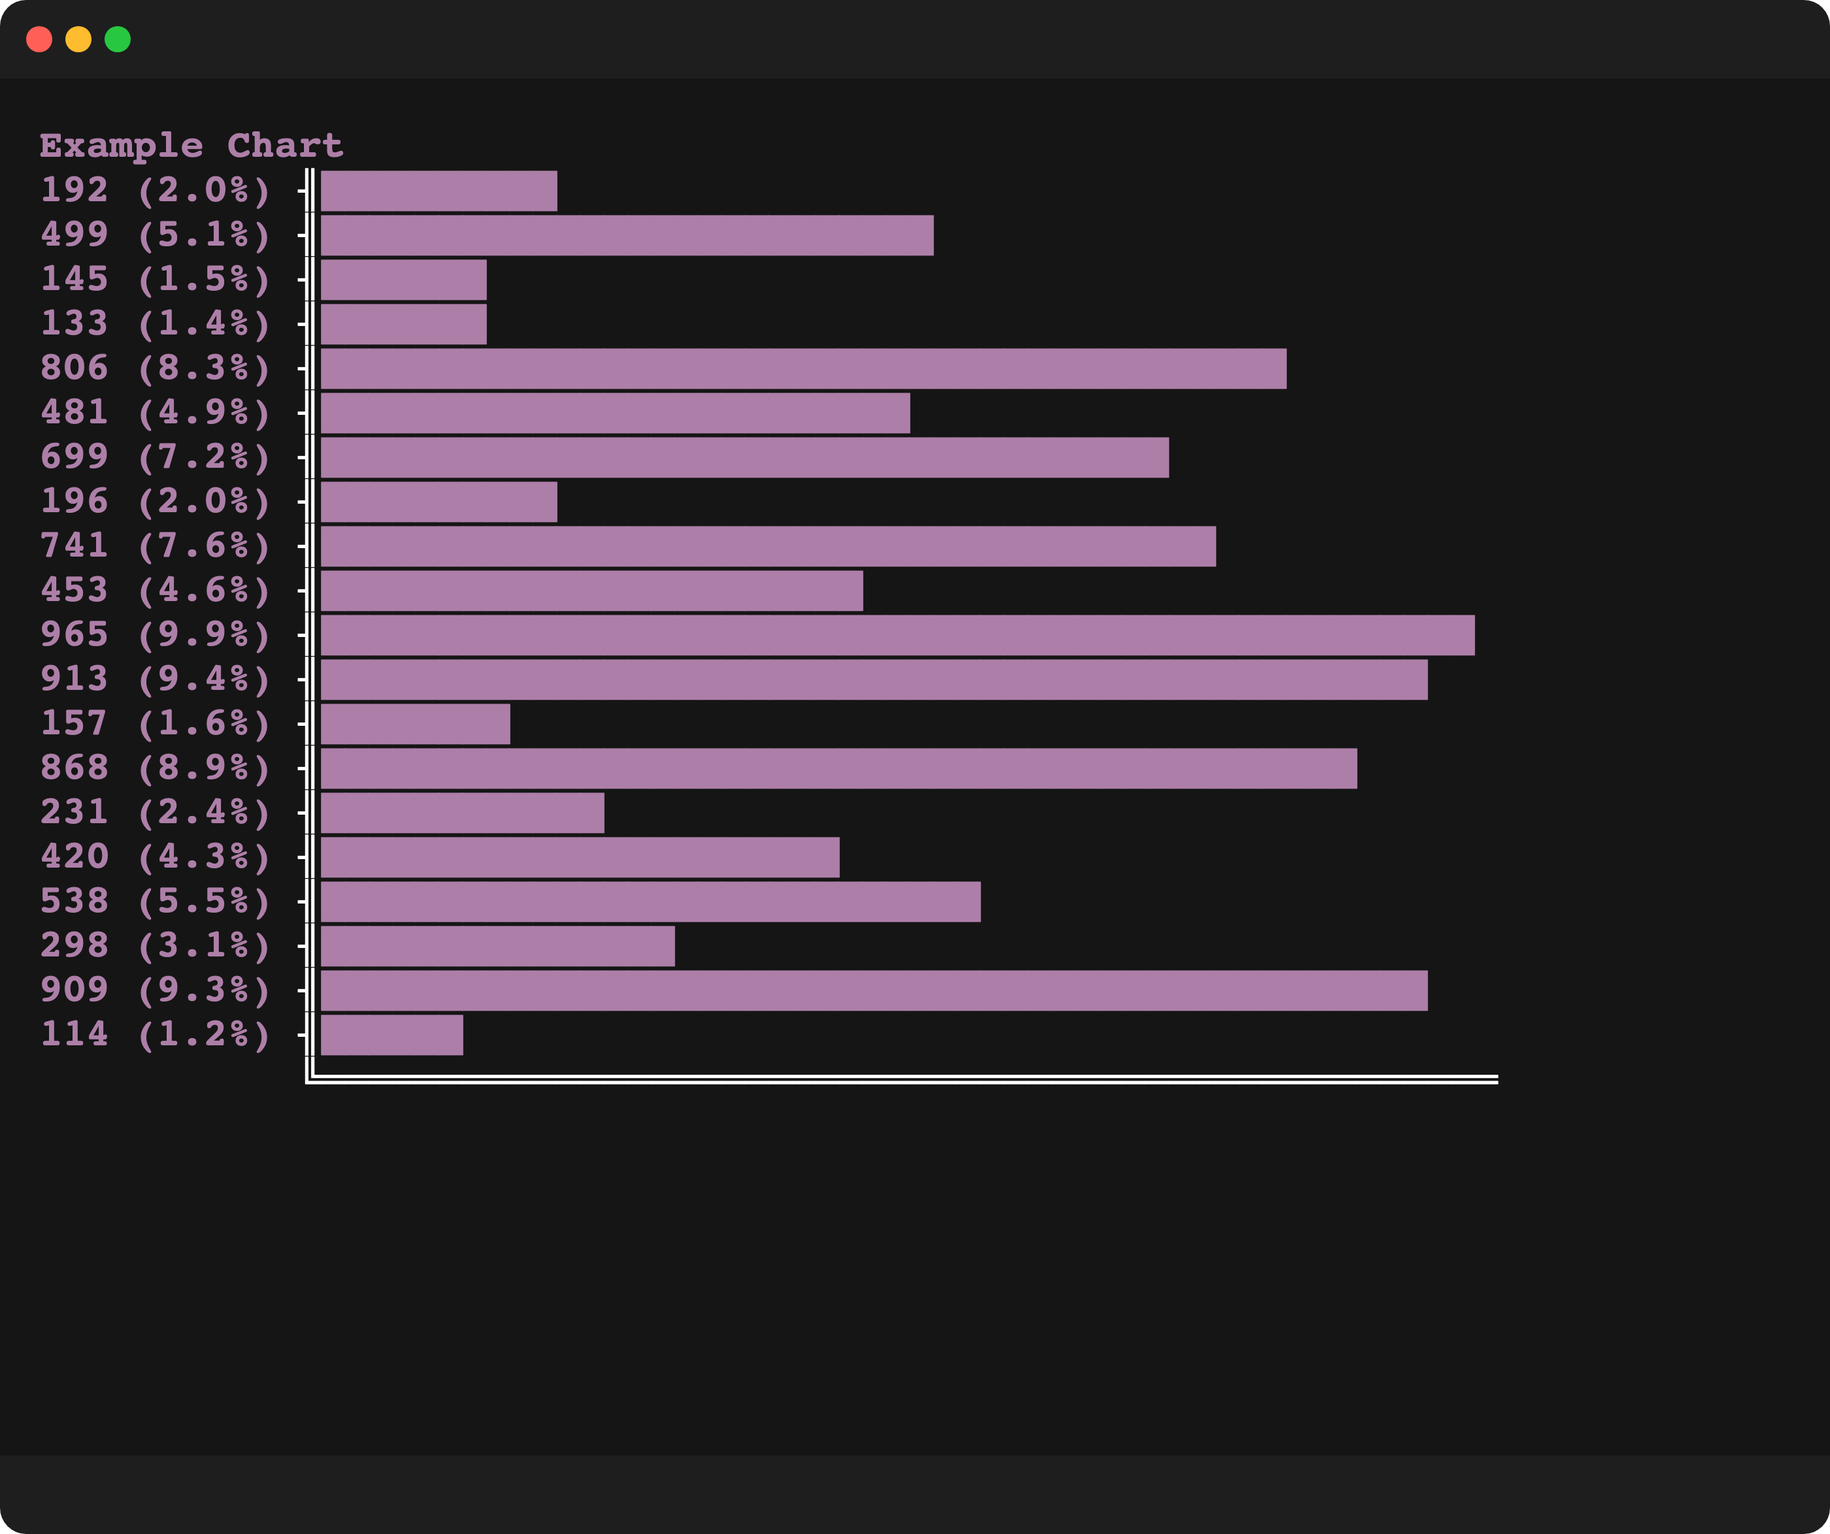
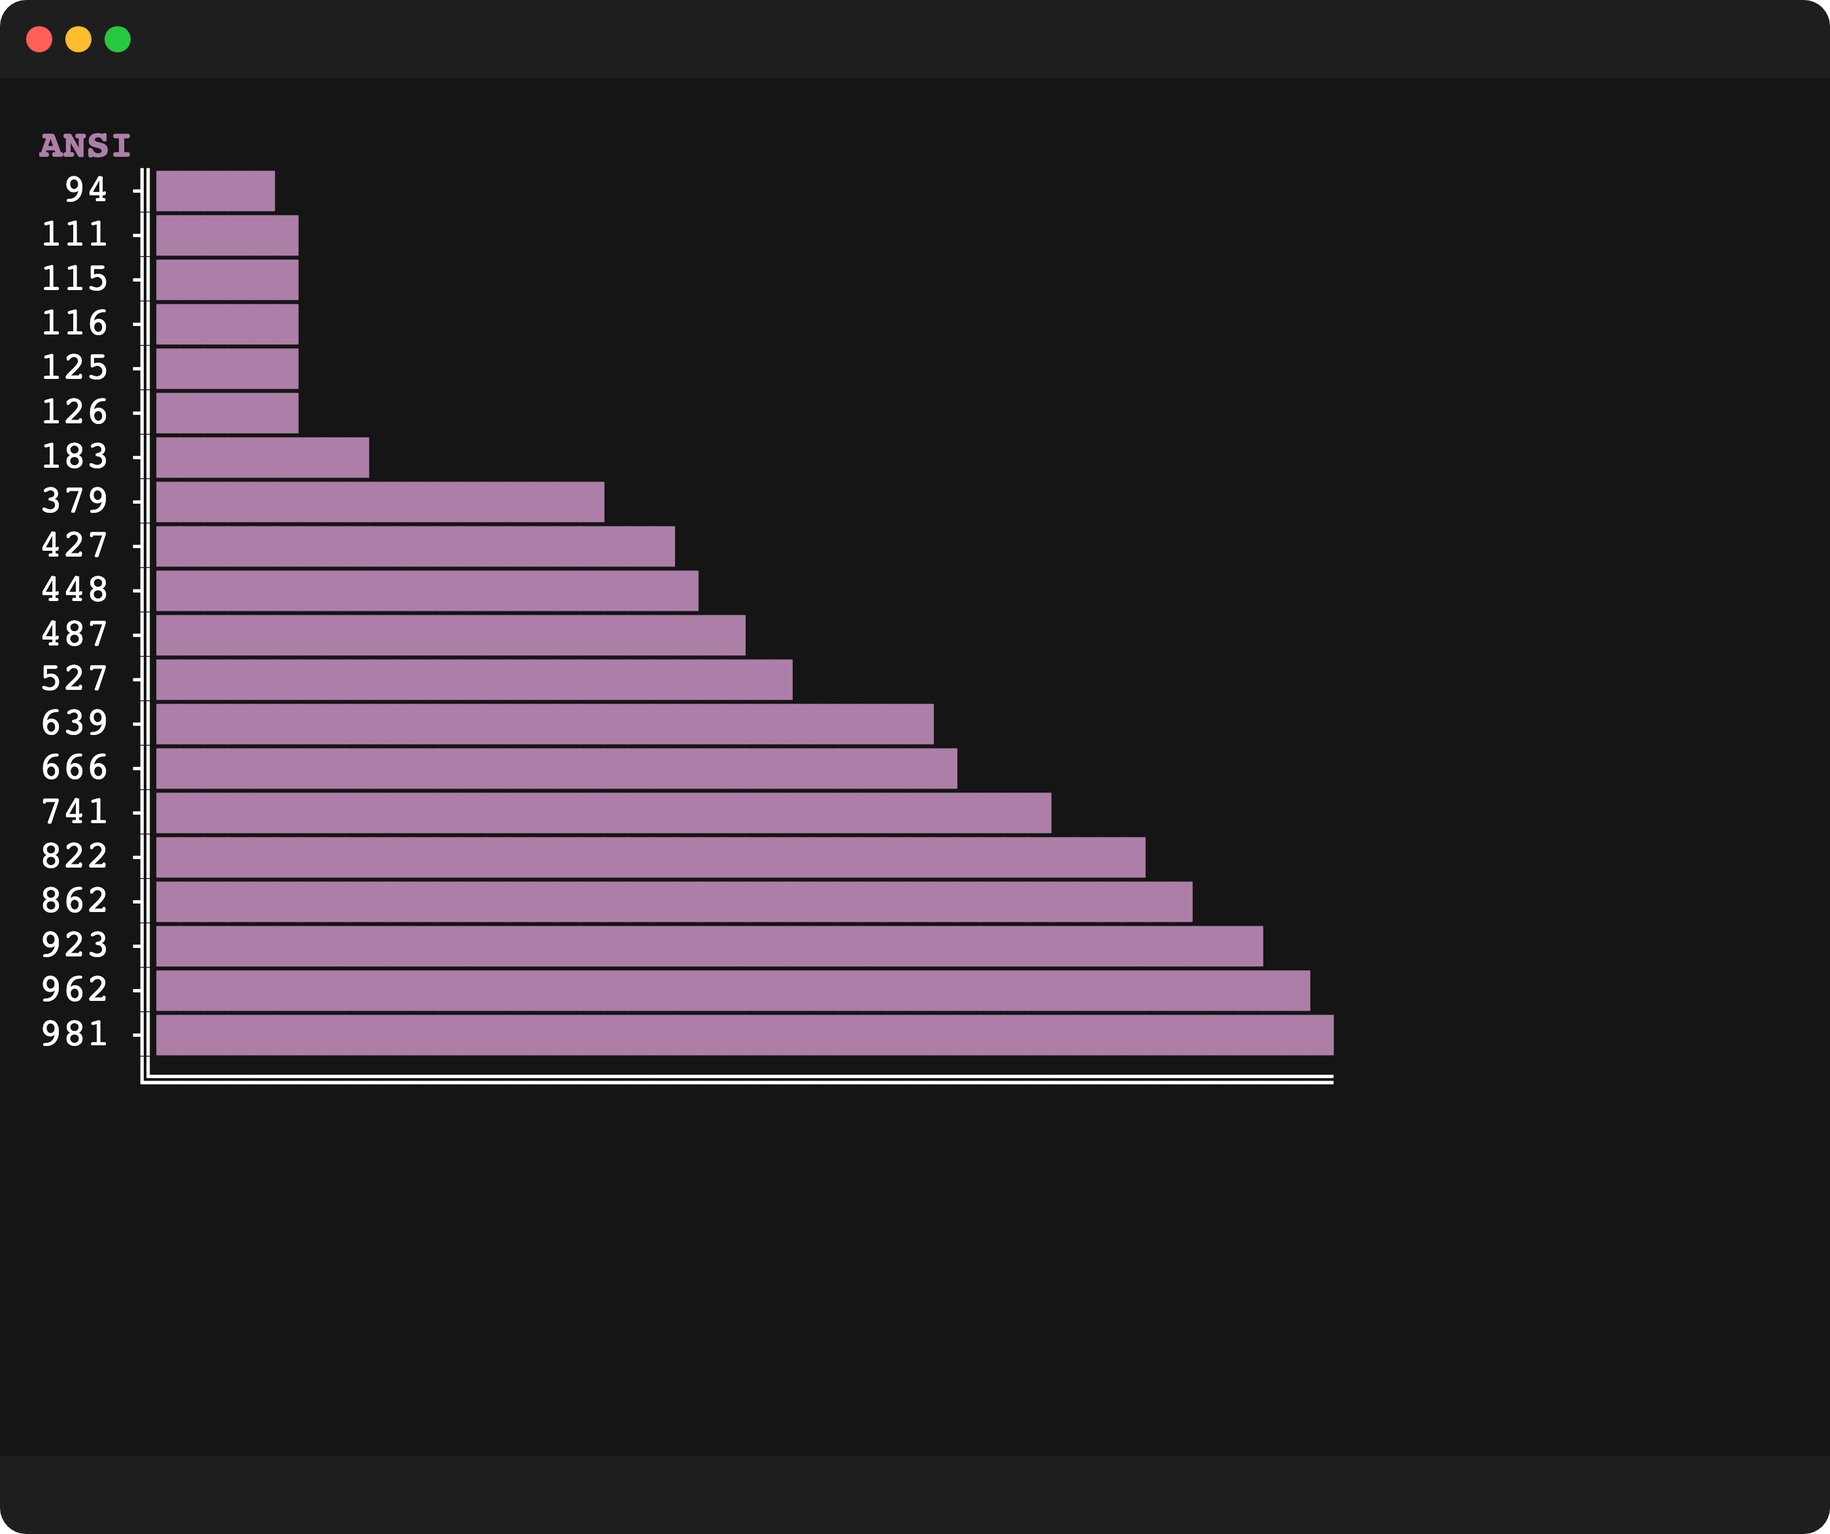
docs: adding gradient example

Changed region(s): [[0.0, 0.0622, 0.7146, 0.7151], [0.2486, 0.342, 0.8079, 0.7151]]

diff --git a/tests/shellfie.test.js b/tests/shellfie.test.js
@@ -11,7 +11,7 @@ describe('shellfie', () => {
             '\x1b[105mSHELLFIE\\x1b[0m🤳',
             '\x1b[38;5;225mthe easiest way',
             '\x1b[38;5;213mto create beautiful',
-            '\x1b[38;5;14mCLI screenshots 📸',
+            '\x1b[38;5;14mTerminal screenshots 📸',
             '\x1b[38;5;199mprogrammatically 🚀'
         ];
         const options = {
@@ -81,7 +81,7 @@ describe('shellfie', () => {
             "[2K[1GDone in 10.46s.",
 
         ]
-        await shellfie(testResults, { name: 'mocha test results', viewport: {height: 400} });
+        await shellfie(testResults, { name: 'mocha test results', viewport: { height: 400 } });
     });
 
     it('should support different font family', async () => {
@@ -122,7 +122,7 @@ describe('shellfie', () => {
             chart.push(Math.floor(Math.random() * 1000));
         }
         const dataString = chart.join(' ');
-        const cmd = `npx chartscii-cli create ${dataString} --label 'Example Chart' --width 500 --color 'green' --colorLabels --percentage --reverse`;
+        const cmd = `npx chartscii-cli create ${dataString} --label 'Random Data' --width 500 --color 'blue' --sort --reverse`;
         const { stdout } = await execute(cmd);
         const data = stdout.split('\n');
         await shellfie(data, { name: 'chartscii' });
@@ -134,9 +134,28 @@ describe('shellfie', () => {
             chart.push(Math.floor(Math.random() * 1000));
         }
         const dataString = chart.join(' ');
-        const cmd = `npx chartscii-cli create ${dataString} --label 'Example Chart' --width 500 --color 'pink' --colorLabels --percentage --reverse`;
+        const cmd = `npx chartscii-cli create ${dataString} --label 'ANSI' --width 500 --color 'pink' --sort --reverse`;
         const { stdout } = await execute(cmd);
         await shellfie(stdout, { name: 'chartscii again', mode: 'raw' });
+    });
+
+    it('should support fancy gradients', async () => {
+        const string = `    
+cristal     [38;2;189;255;243m■[39m[38;2;187;254;241m■[39m[38;2;184;252;239m■[39m[38;2;182;251;237m■[39m[38;2;179;250;235m■[39m[38;2;177;249;234m■[39m[38;2;174;247;232m■[39m[38;2;172;246;230m■[39m[38;2;169;245;228m■[39m[38;2;167;243;226m■[39m[38;2;165;242;224m■[39m[38;2;162;241;222m■[39m[38;2;160;239;220m■[39m[38;2;157;238;218m■[39m[38;2;155;237;216m■[39m[38;2;152;236;215m■[39m[38;2;150;234;213m■[39m[38;2;147;233;211m■[39m[38;2;145;232;209m■[39m[38;2;143;230;207m■[39m[38;2;140;229;205m■[39m[38;2;138;228;203m■[39m[38;2;135;226;201m■[39m[38;2;133;225;199m■[39m[38;2;130;224;198m■[39m[38;2;128;223;196m■[39m[38;2;125;221;194m■[39m[38;2;123;220;192m■[39m[38;2;120;219;190m■[39m[38;2;118;217;188m■[39m[38;2;116;216;186m■[39m[38;2;113;215;184m■[39m[38;2;111;213;182m■[39m[38;2;108;212;181m■[39m[38;2;106;211;179m■[39m[38;2;103;210;177m■[39m[38;2;101;208;175m■[39m[38;2;98;207;173m■[39m[38;2;96;206;171m■[39m[38;2;94;204;169m■[39m[38;2;91;203;167m■[39m[38;2;89;202;165m■[39m[38;2;86;200;163m■[39m[38;2;84;199;162m■[39m[38;2;81;198;160m■[39m[38;2;79;197;158m■[39m[38;2;76;195;156m■[39m[38;2;74;194;154m■[39m
+teen        [38;2;119;161;211m■[39m[38;2;119;163;211m■[39m[38;2;119;165;210m■[39m[38;2;119;166;210m■[39m[38;2;119;168;209m■[39m[38;2;119;170;209m■[39m[38;2;120;172;209m■[39m[38;2;120;174;208m■[39m[38;2;120;176;208m■[39m[38;2;120;177;207m■[39m[38;2;120;179;207m■[39m[38;2;120;181;207m■[39m[38;2;120;183;206m■[39m[38;2;120;185;206m■[39m[38;2;120;187;206m■[39m[38;2;120;188;205m■[39m[38;2;120;190;205m■[39m[38;2;120;192;204m■[39m[38;2;121;194;204m■[39m[38;2;121;196;204m■[39m[38;2;121;198;203m■[39m[38;2;121;199;203m■[39m[38;2;121;201;202m■[39m[38;2;121;203;202m■[39m[38;2;126;200;201m■[39m[38;2;130;197;200m■[39m[38;2;135;194;199m■[39m[38;2;139;191;197m■[39m[38;2;144;188;196m■[39m[38;2;148;185;195m■[39m[38;2;153;182;194m■[39m[38;2;157;179;193m■[39m[38;2;162;176;192m■[39m[38;2;166;173;190m■[39m[38;2;171;170;189m■[39m[38;2;176;168;188m■[39m[38;2;180;165;187m■[39m[38;2;185;162;186m■[39m[38;2;189;159;185m■[39m[38;2;194;156;183m■[39m[38;2;198;153;182m■[39m[38;2;203;150;181m■[39m[38;2;207;147;180m■[39m[38;2;212;144;179m■[39m[38;2;216;141;178m■[39m[38;2;221;138;176m■[39m[38;2;225;135;175m■[39m[38;2;230;132;174m■[39m
+mind        [38;2;71;59;123m■[39m[38;2;70;62;125m■[39m[38;2;69;65;127m■[39m[38;2;69;69;129m■[39m[38;2;68;72;131m■[39m[38;2;67;75;133m■[39m[38;2;66;78;134m■[39m[38;2;66;81;136m■[39m[38;2;65;84;138m■[39m[38;2;64;88;140m■[39m[38;2;63;91;142m■[39m[38;2;62;94;144m■[39m[38;2;62;97;146m■[39m[38;2;61;100;148m■[39m[38;2;60;103;150m■[39m[38;2;59;107;152m■[39m[38;2;58;110;154m■[39m[38;2;58;113;156m■[39m[38;2;57;116;157m■[39m[38;2;56;119;159m■[39m[38;2;55;122;161m■[39m[38;2;55;126;163m■[39m[38;2;54;129;165m■[39m[38;2;53;132;167m■[39m[38;2;53;135;168m■[39m[38;2;53;139;169m■[39m[38;2;52;142;170m■[39m[38;2;52;145;171m■[39m[38;2;52;148;172m■[39m[38;2;52;152;173m■[39m[38;2;52;155;174m■[39m[38;2;51;158;175m■[39m[38;2;51;161;176m■[39m[38;2;51;165;177m■[39m[38;2;51;168;178m■[39m[38;2;51;171;179m■[39m[38;2;50;174;179m■[39m[38;2;50;178;180m■[39m[38;2;50;181;181m■[39m[38;2;50;184;182m■[39m[38;2;49;187;183m■[39m[38;2;49;191;184m■[39m[38;2;49;194;185m■[39m[38;2;49;197;186m■[39m[38;2;49;200;187m■[39m[38;2;48;204;188m■[39m[38;2;48;207;189m■[39m[38;2;48;210;190m■[39m
+morning     [38;2;255;95;109m■[39m[38;2;255;95;107m■[39m[38;2;255;96;105m■[39m[38;2;255;96;103m■[39m[38;2;255;97;101m■[39m[38;2;255;97;100m■[39m[38;2;255;97;98m■[39m[38;2;255;100;98m■[39m[38;2;255;102;98m■[39m[38;2;255;105;98m■[39m[38;2;255;107;99m■[39m[38;2;255;110;99m■[39m[38;2;255;112;100m■[39m[38;2;255;115;100m■[39m[38;2;255;117;100m■[39m[38;2;255;120;101m■[39m[38;2;255;123;101m■[39m[38;2;255;125;102m■[39m[38;2;255;127;102m■[39m[38;2;255;130;102m■[39m[38;2;255;132;103m■[39m[38;2;255;135;103m■[39m[38;2;255;137;103m■[39m[38;2;255;140;104m■[39m[38;2;255;142;104m■[39m[38;2;255;145;105m■[39m[38;2;255;147;105m■[39m[38;2;255;149;105m■[39m[38;2;255;152;106m■[39m[38;2;255;154;106m■[39m[38;2;255;157;107m■[39m[38;2;255;159;107m■[39m[38;2;255;161;107m■[39m[38;2;255;164;108m■[39m[38;2;255;166;108m■[39m[38;2;255;168;108m■[39m[38;2;255;170;109m■[39m[38;2;255;173;109m■[39m[38;2;255;175;110m■[39m[38;2;255;177;110m■[39m[38;2;255;180;110m■[39m[38;2;255;182;111m■[39m[38;2;255;184;111m■[39m[38;2;255;186;111m■[39m[38;2;255;188;112m■[39m[38;2;255;191;112m■[39m[38;2;255;193;113m■[39m[38;2;255;195;113m■[39m
+vice        [38;2;94;231;223m■[39m[38;2;95;230;227m■[39m[38;2;96;228;230m■[39m[38;2;98;223;229m■[39m[38;2;99;218;229m■[39m[38;2;100;213;228m■[39m[38;2;101;208;227m■[39m[38;2;103;203;227m■[39m[38;2;104;198;226m■[39m[38;2;105;194;225m■[39m[38;2;106;189;225m■[39m[38;2;107;185;224m■[39m[38;2;108;181;224m■[39m[38;2;110;177;223m■[39m[38;2;111;173;222m■[39m[38;2;112;169;222m■[39m[38;2;113;166;221m■[39m[38;2;114;162;220m■[39m[38;2;115;159;220m■[39m[38;2;116;155;219m■[39m[38;2;117;152;219m■[39m[38;2;119;149;218m■[39m[38;2;120;146;217m■[39m[38;2;121;143;217m■[39m[38;2;122;141;216m■[39m[38;2;123;138;216m■[39m[38;2;124;136;215m■[39m[38;2;125;133;214m■[39m[38;2;126;131;214m■[39m[38;2;127;129;213m■[39m[38;2;129;128;212m■[39m[38;2;133;129;212m■[39m[38;2;137;130;211m■[39m[38;2;141;131;211m■[39m[38;2;144;132;210m■[39m[38;2;148;133;209m■[39m[38;2;151;134;209m■[39m[38;2;154;135;208m■[39m[38;2;157;136;208m■[39m[38;2;160;137;207m■[39m[38;2;163;138;206m■[39m[38;2;166;139;206m■[39m[38;2;169;140;205m■[39m[38;2;171;140;204m■[39m[38;2;173;141;204m■[39m[38;2;176;142;203m■[39m[38;2;178;143;203m■[39m[38;2;180;144;202m■[39m
+passion     [38;2;244;59;71m■[39m[38;2;240;59;73m■[39m[38;2;237;59;74m■[39m[38;2;233;59;76m■[39m[38;2;229;59;78m■[39m[38;2;225;59;79m■[39m[38;2;222;59;81m■[39m[38;2;218;59;82m■[39m[38;2;214;59;84m■[39m[38;2;210;59;86m■[39m[38;2;207;59;87m■[39m[38;2;203;59;89m■[39m[38;2;199;59;91m■[39m[38;2;196;59;92m■[39m[38;2;192;59;94m■[39m[38;2;188;59;96m■[39m[38;2;184;59;97m■[39m[38;2;181;59;99m■[39m[38;2;177;59;100m■[39m[38;2;173;59;102m■[39m[38;2;170;59;104m■[39m[38;2;166;59;105m■[39m[38;2;162;59;107m■[39m[38;2;158;59;109m■[39m[38;2;155;58;110m■[39m[38;2;151;58;112m■[39m[38;2;147;58;114m■[39m[38;2;143;58;115m■[39m[38;2;140;58;117m■[39m[38;2;136;58;119m■[39m[38;2;132;58;120m■[39m[38;2;129;58;122m■[39m[38;2;125;58;123m■[39m[38;2;121;58;125m■[39m[38;2;117;58;127m■[39m[38;2;114;58;128m■[39m[38;2;110;58;130m■[39m[38;2;106;58;132m■[39m[38;2;103;58;133m■[39m[38;2;99;58;135m■[39m[38;2;95;58;137m■[39m[38;2;91;58;138m■[39m[38;2;88;58;140m■[39m[38;2;84;58;141m■[39m[38;2;80;58;143m■[39m[38;2;76;58;145m■[39m[38;2;73;58;146m■[39m[38;2;69;58;148m■[39m
+fruit       [38;2;255;78;80m■[39m[38;2;255;81;79m■[39m[38;2;255;84;78m■[39m[38;2;255;87;77m■[39m[38;2;254;89;76m■[39m[38;2;254;92;75m■[39m[38;2;254;95;74m■[39m[38;2;254;98;73m■[39m[38;2;254;101;72m■[39m[38;2;254;104;71m■[39m[38;2;254;107;70m■[39m[38;2;254;109;69m■[39m[38;2;253;112;69m■[39m[38;2;253;115;68m■[39m[38;2;253;118;67m■[39m[38;2;253;121;66m■[39m[38;2;253;124;65m■[39m[38;2;253;126;64m■[39m[38;2;253;129;63m■[39m[38;2;253;132;62m■[39m[38;2;252;135;61m■[39m[38;2;252;138;60m■[39m[38;2;252;141;59m■[39m[38;2;252;144;58m■[39m[38;2;252;146;57m■[39m[38;2;252;149;56m■[39m[38;2;252;152;55m■[39m[38;2;252;155;54m■[39m[38;2;251;158;53m■[39m[38;2;251;161;52m■[39m[38;2;251;164;51m■[39m[38;2;251;166;50m■[39m[38;2;251;169;49m■[39m[38;2;251;172;48m■[39m[38;2;251;175;47m■[39m[38;2;251;178;46m■[39m[38;2;250;181;46m■[39m[38;2;250;183;45m■[39m[38;2;250;186;44m■[39m[38;2;250;189;43m■[39m[38;2;250;192;42m■[39m[38;2;250;195;41m■[39m[38;2;250;198;40m■[39m[38;2;250;201;39m■[39m[38;2;249;203;38m■[39m[38;2;249;206;37m■[39m[38;2;249;209;36m■[39m[38;2;249;212;35m■[39m
+instagram   [38;2;131;58;180m■[39m[38;2;136;57;173m■[39m[38;2;142;55;167m■[39m[38;2;147;54;160m■[39m[38;2;152;53;154m■[39m[38;2;158;52;147m■[39m[38;2;163;50;141m■[39m[38;2;168;49;134m■[39m[38;2;173;48;127m■[39m[38;2;179;47;121m■[39m[38;2;184;45;114m■[39m[38;2;189;44;108m■[39m[38;2;195;43;101m■[39m[38;2;200;42;95m■[39m[38;2;205;40;88m■[39m[38;2;211;39;82m■[39m[38;2;216;38;75m■[39m[38;2;221;37;68m■[39m[38;2;226;35;62m■[39m[38;2;232;34;55m■[39m[38;2;237;33;49m■[39m[38;2;242;32;42m■[39m[38;2;248;30;36m■[39m[38;2;253;29;29m■[39m[38;2;253;35;31m■[39m[38;2;253;41;32m■[39m[38;2;253;47;34m■[39m[38;2;253;54;36m■[39m[38;2;253;60;37m■[39m[38;2;253;66;39m■[39m[38;2;253;72;41m■[39m[38;2;253;78;42m■[39m[38;2;253;84;44m■[39m[38;2;253;90;46m■[39m[38;2;253;96;47m■[39m[38;2;253;103;49m■[39m[38;2;252;109;51m■[39m[38;2;252;115;52m■[39m[38;2;252;121;54m■[39m[38;2;252;127;56m■[39m[38;2;252;133;57m■[39m[38;2;252;139;59m■[39m[38;2;252;145;61m■[39m[38;2;252;152;62m■[39m[38;2;252;158;64m■[39m[38;2;252;164;66m■[39m[38;2;252;170;67m■[39m[38;2;252;176;69m■[39m
+atlas       [38;2;254;172;94m■[39m[38;2;252;170;99m■[39m[38;2;249;168;104m■[39m[38;2;247;165;109m■[39m[38;2;244;163;114m■[39m[38;2;242;161;119m■[39m[38;2;240;159;124m■[39m[38;2;237;156;129m■[39m[38;2;235;154;134m■[39m[38;2;232;152;139m■[39m[38;2;230;150;144m■[39m[38;2;228;148;149m■[39m[38;2;225;145;153m■[39m[38;2;223;143;158m■[39m[38;2;221;141;163m■[39m[38;2;218;139;168m■[39m[38;2;216;137;173m■[39m[38;2;213;134;178m■[39m[38;2;211;132;183m■[39m[38;2;209;130;188m■[39m[38;2;206;128;193m■[39m[38;2;204;125;198m■[39m[38;2;201;123;203m■[39m[38;2;199;121;208m■[39m[38;2;194;124;208m■[39m[38;2;189;127;207m■[39m[38;2;184;130;207m■[39m[38;2;178;133;207m■[39m[38;2;173;136;206m■[39m[38;2;168;139;206m■[39m[38;2;163;142;206m■[39m[38;2;158;145;205m■[39m[38;2;153;148;205m■[39m[38;2;147;151;205m■[39m[38;2;142;154;204m■[39m[38;2;137;157;204m■[39m[38;2;132;159;204m■[39m[38;2;127;162;203m■[39m[38;2;122;165;203m■[39m[38;2;116;168;203m■[39m[38;2;111;171;202m■[39m[38;2;106;174;202m■[39m[38;2;101;177;202m■[39m[38;2;96;180;201m■[39m[38;2;91;183;201m■[39m[38;2;85;186;201m■[39m[38;2;80;189;200m■[39m[38;2;75;192;200m■[39m
+retro       [38;2;63;81;177m■[39m[38;2;68;82;176m■[39m[38;2;74;83;176m■[39m[38;2;79;83;175m■[39m[38;2;85;84;175m■[39m[38;2;90;85;174m■[39m[38;2;96;87;174m■[39m[38;2;101;88;173m■[39m[38;2;107;90;173m■[39m[38;2;112;92;173m■[39m[38;2;118;93;172m■[39m[38;2;123;95;172m■[39m[38;2;126;97;172m■[39m[38;2;130;99;173m■[39m[38;2;133;101;173m■[39m[38;2;136;102;173m■[39m[38;2;140;104;174m■[39m[38;2;143;106;174m■[39m[38;2;147;106;172m■[39m[38;2;151;106;171m■[39m[38;2;156;106;169m■[39m[38;2;160;106;167m■[39m[38;2;164;106;166m■[39m[38;2;168;106;164m■[39m[38;2;174;106;160m■[39m[38;2;180;106;157m■[39m[38;2;186;107;153m■[39m[38;2;192;107;149m■[39m[38;2;198;107;146m■[39m[38;2;204;107;142m■[39m[38;2;210;111;137m■[39m[38;2;216;115;132m■[39m[38;2;223;119;128m■[39m[38;2;229;122;123m■[39m[38;2;235;126;118m■[39m[38;2;241;130;113m■[39m[38;2;241;136;112m■[39m[38;2;242;141;110m■[39m[38;2;242;147;109m■[39m[38;2;242;153;108m■[39m[38;2;243;158;106m■[39m[38;2;243;164;105m■[39m[38;2;244;170;108m■[39m[38;2;244;176;110m■[39m[38;2;245;183;113m■[39m[38;2;246;189;115m■[39m[38;2;246;195;118m■[39m[38;2;247;201;120m■[39m
+summer      [38;2;253;187;45m■[39m[38;2;248;187;48m■[39m[38;2;244;187;51m■[39m[38;2;239;187;55m■[39m[38;2;234;188;58m■[39m[38;2;230;188;61m■[39m[38;2;225;188;64m■[39m[38;2;220;188;67m■[39m[38;2;216;188;71m■[39m[38;2;211;188;74m■[39m[38;2;206;188;77m■[39m[38;2;202;188;80m■[39m[38;2;197;189;83m■[39m[38;2;192;189;86m■[39m[38;2;188;189;90m■[39m[38;2;183;189;93m■[39m[38;2;178;189;96m■[39m[38;2;174;189;99m■[39m[38;2;169;189;102m■[39m[38;2;164;189;106m■[39m[38;2;160;190;109m■[39m[38;2;155;190;112m■[39m[38;2;150;190;115m■[39m[38;2;146;190;118m■[39m[38;2;141;190;122m■[39m[38;2;137;190;125m■[39m[38;2;132;190;128m■[39m[38;2;127;190;131m■[39m[38;2;123;191;134m■[39m[38;2;118;191;138m■[39m[38;2;113;191;141m■[39m[38;2;109;191;144m■[39m[38;2;104;191;147m■[39m[38;2;99;191;150m■[39m[38;2;95;191;154m■[39m[38;2;90;191;157m■[39m[38;2;85;192;160m■[39m[38;2;81;192;163m■[39m[38;2;76;192;166m■[39m[38;2;71;192;169m■[39m[38;2;67;192;173m■[39m[38;2;62;192;176m■[39m[38;2;57;192;179m■[39m[38;2;53;192;182m■[39m[38;2;48;193;185m■[39m[38;2;43;193;189m■[39m[38;2;39;193;192m■[39m[38;2;34;193;195m■[39m
+pastel      [38;2;116;235;213m■[39m[38;2;116;235;228m■[39m[38;2;116;227;235m■[39m[38;2;116;212;235m■[39m[38;2;116;196;235m■[39m[38;2;116;181;235m■[39m[38;2;116;166;235m■[39m[38;2;116;151;235m■[39m[38;2;116;136;235m■[39m[38;2;116;120;235m■[39m[38;2;127;116;235m■[39m[38;2;142;116;235m■[39m[38;2;157;116;235m■[39m[38;2;172;116;235m■[39m[38;2;188;116;235m■[39m[38;2;203;116;235m■[39m[38;2;218;116;235m■[39m[38;2;233;116;235m■[39m[38;2;235;116;222m■[39m[38;2;235;116;207m■[39m[38;2;235;116;192m■[39m[38;2;235;116;177m■[39m[38;2;235;116;161m■[39m[38;2;235;116;146m■[39m[38;2;235;116;131m■[39m[38;2;236;116;116m■[39m[38;2;236;132;116m■[39m[38;2;236;147;116m■[39m[38;2;236;162;116m■[39m[38;2;236;177;116m■[39m[38;2;236;193;116m■[39m[38;2;236;208;116m■[39m[38;2;236;223;116m■[39m[38;2;233;236;116m■[39m[38;2;218;236;116m■[39m[38;2;202;236;116m■[39m[38;2;187;236;116m■[39m[38;2;172;236;116m■[39m[38;2;157;236;116m■[39m[38;2;141;236;116m■[39m[38;2;126;236;116m■[39m[38;2;116;236;121m■[39m[38;2;116;236;136m■[39m[38;2;116;236;152m■[39m[38;2;116;236;167m■[39m[38;2;116;236;182m■[39m[38;2;116;236;198m■[39m[38;2;116;236;213m■[39m
+rainbow     [38;2;255;0;0m■[39m[38;2;255;0;33m■[39m[38;2;255;0;65m■[39m[38;2;255;0;98m■[39m[38;2;255;0;130m■[39m[38;2;255;0;163m■[39m[38;2;255;0;195m■[39m[38;2;255;0;228m■[39m[38;2;250;0;255m■[39m[38;2;217;0;255m■[39m[38;2;185;0;255m■[39m[38;2;152;0;255m■[39m[38;2;120;0;255m■[39m[38;2;87;0;255m■[39m[38;2;55;0;255m■[39m[38;2;22;0;255m■[39m[38;2;0;11;255m■[39m[38;2;0;43;255m■[39m[38;2;0;76;255m■[39m[38;2;0;108;255m■[39m[38;2;0;141;255m■[39m[38;2;0;173;255m■[39m[38;2;0;206;255m■[39m[38;2;0;238;255m■[39m[38;2;0;255;239m■[39m[38;2;0;255;207m■[39m[38;2;0;255;174m■[39m[38;2;0;255;142m■[39m[38;2;0;255;109m■[39m[38;2;0;255;77m■[39m[38;2;0;255;44m■[39m[38;2;0;255;12m■[39m[38;2;21;255;0m■[39m[38;2;54;255;0m■[39m[38;2;86;255;0m■[39m[38;2;119;255;0m■[39m[38;2;151;255;0m■[39m[38;2;184;255;0m■[39m[38;2;216;255;0m■[39m[38;2;249;255;0m■[39m[38;2;255;229;0m■[39m[38;2;255;196;0m■[39m[38;2;255;164;0m■[39m[38;2;255;131;0m■[39m[38;2;255;99;0m■[39m[38;2;255;66;0m■[39m[38;2;255;34;0m■[39m[38;2;255;1;0m■[39m
+  `
+        await shellfie(string, { name: 'gradient', mode: 'raw', viewport: {width: 600, height: 350} });
     });
 
     it('should support string output', async () => {
